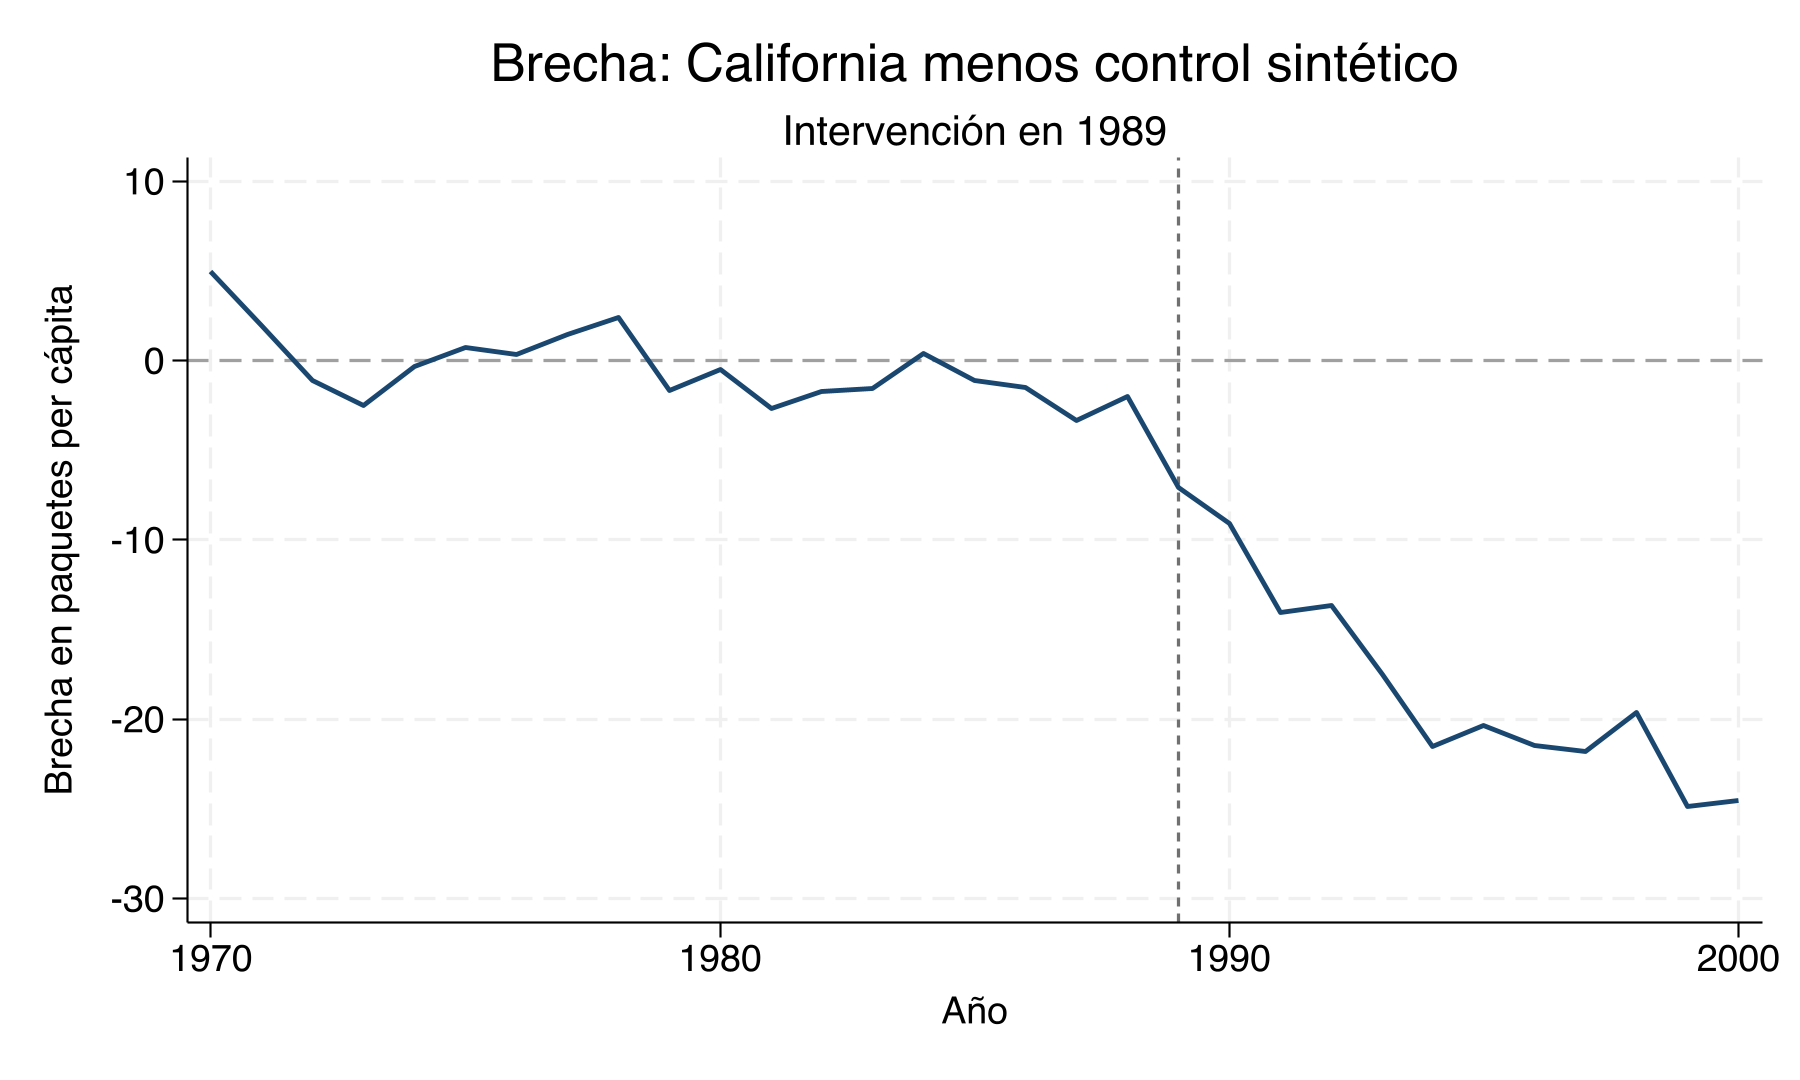
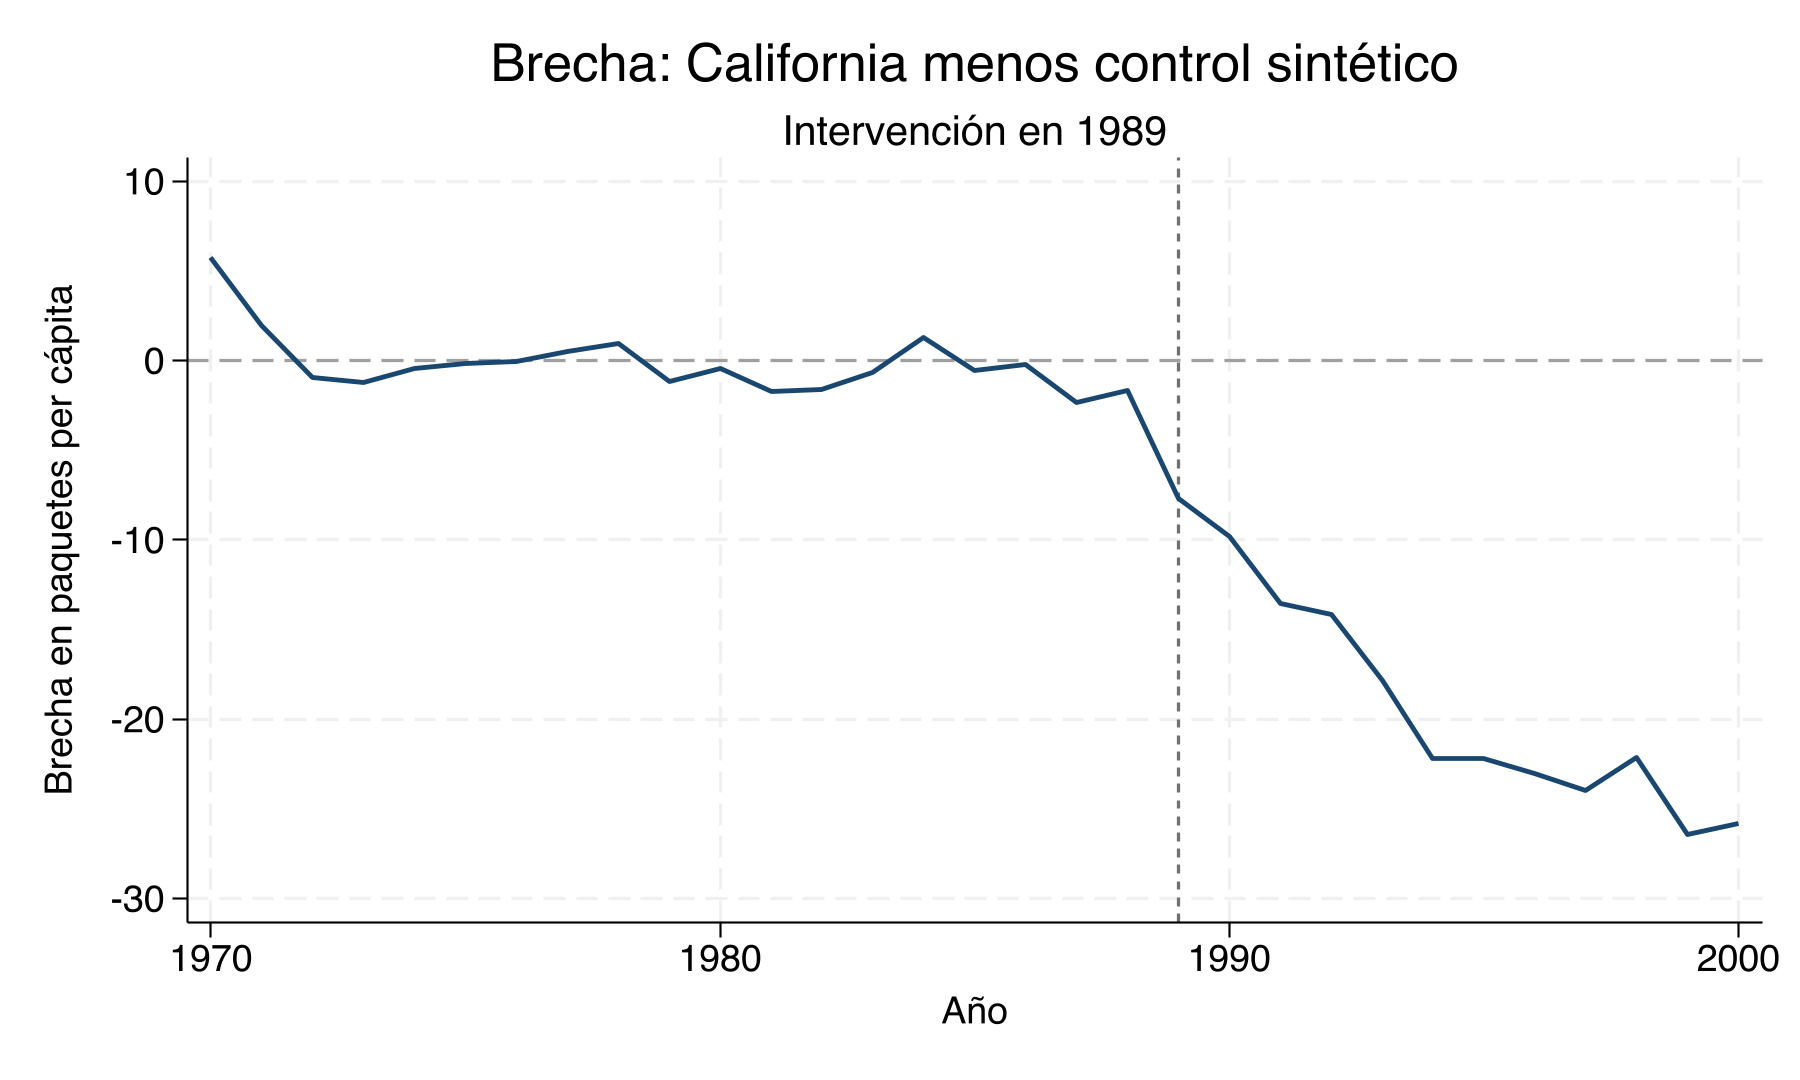
fix: use nested canonical Prop 99 optimization

diff --git a/tests/test_synthetic_controls_contract.py b/tests/test_synthetic_controls_contract.py
@@ -77,7 +77,7 @@ def test_dofile_uses_real_synth_for_canonical_estimate():
         "synth cigsale lnincome beer(1984(1)1988) age15to24 retprice "
         "cigsale(1975) cigsale(1980) cigsale(1988), trunit(3) "
         "trperiod(1989) xperiod(1980(1)1988) "
-        "keep(results/california_synth_native.dta) replace"
+        "nested keep(results/california_synth_native.dta) replace"
     )
     assert canonical_command in normalized
     for marker in ["synth_weights.csv", "synth_predictor_balance.csv", "synth_paths.csv", "synth_rmspe.csv"]:
@@ -138,7 +138,9 @@ def test_weights_are_convex_and_reconstruction_matches_synth():
     values = [float(r["weight"]) for r in weights]
     assert values
     assert all(w >= -1e-8 for w in values)
-    assert abs(sum(values) - 1) < 1e-6
+    assert abs(sum(values) - 1) < 0.002
+    positive_states = {r["state"] for r in weights if float(r["weight"]) > 0}
+    assert positive_states == {"Colorado", "Connecticut", "Montana", "Nevada", "Utah"}
     paths = rows("synth_paths.csv")
     assert max(abs(float(r["synthetic"]) - float(r["manual_synthetic"])) for r in paths) < 1e-8
 

diff --git a/docs/superpowers/plans/2026-07-29-controles-sinteticos-teoria-empirica.md b/docs/superpowers/plans/2026-07-29-controles-sinteticos-teoria-empirica.md
@@ -202,7 +202,7 @@ xtset state_id year
 ```stata
 synth cigsale lnincome beer(1984(1)1988) age15to24 retprice ///
     cigsale(1975) cigsale(1980) cigsale(1988), ///
-    trunit(3) trperiod(1989) xperiod(1980(1)1988) ///
+    trunit(3) trperiod(1989) xperiod(1980(1)1988) nested ///
     keep(results/california_synth_native.dta) replace
 ```
 
@@ -218,7 +218,7 @@ y
 predictor,treated,synthetic
 ```
 
-Añadir aserciones Stata `assert weight >= -1e-10` y `assert abs(sum_weight-1)<1e-6` antes de exportar.
+Añadir aserciones Stata `assert weight >= -1e-10` y `assert abs(sum_weight-1)<0.002` antes de exportar; la segunda tolerancia admite únicamente el redondeo a tres decimales de `e(W_weights)` en la versión SSC de `synth`.
 
 - [ ] **Step 5: Reconstruir la trayectoria con los pesos y verificarla contra la salida nativa.** Combinar los pesos con el panel donante, calcular `manual_synthetic=sum(weight*cigsale)` por año, unir con California y con `_Y_synthetic` de `california_synth_native.dta`, y exigir:
 
